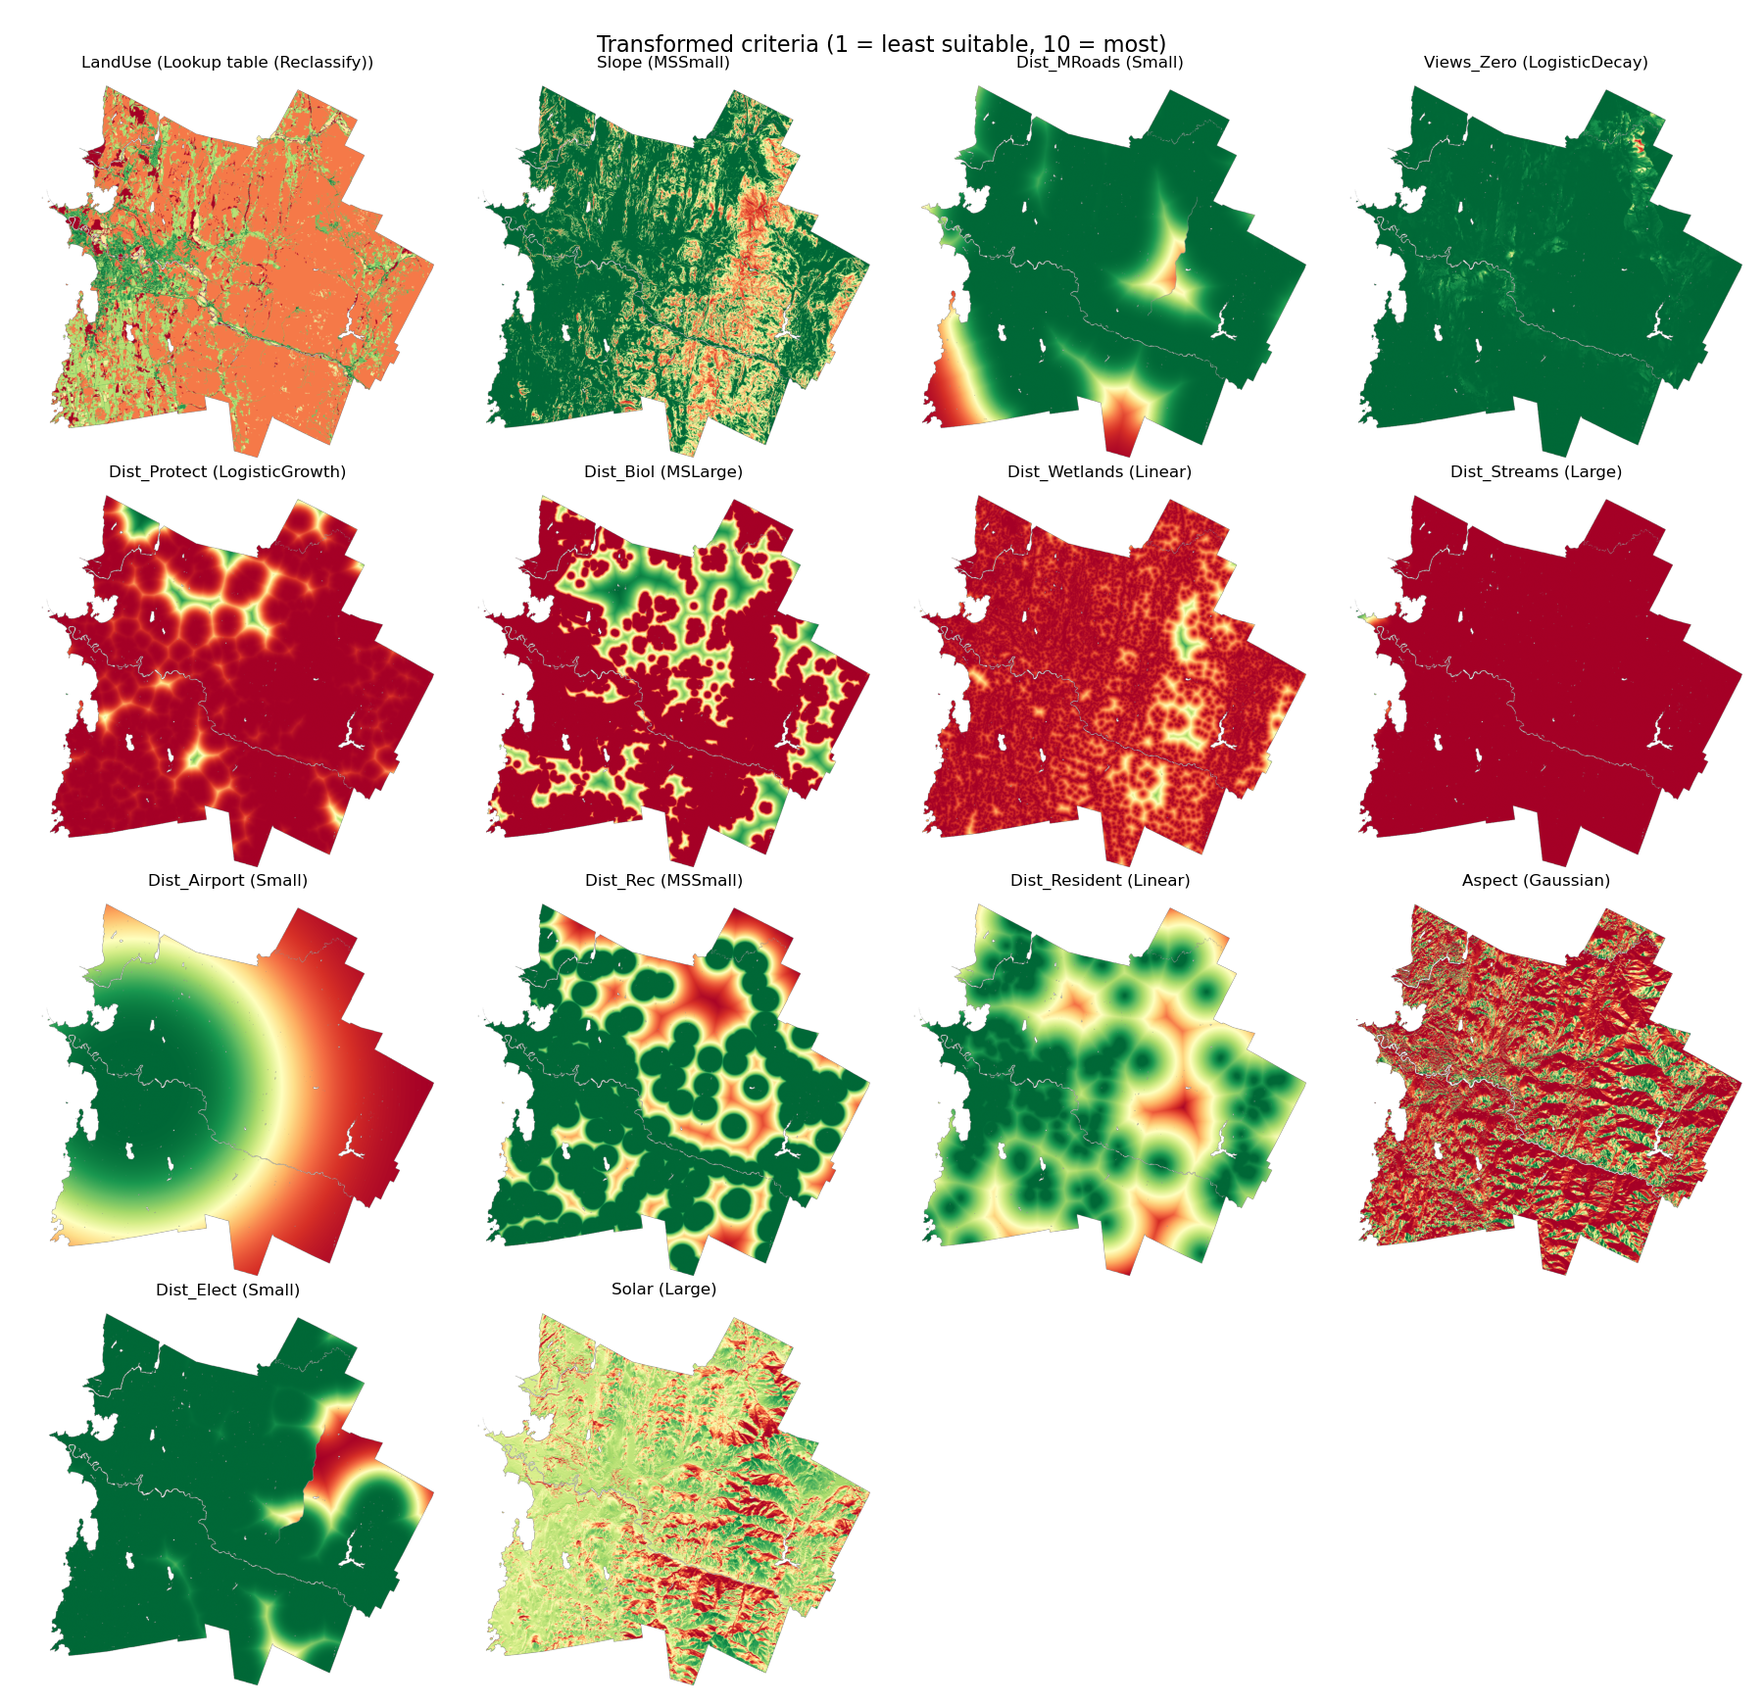
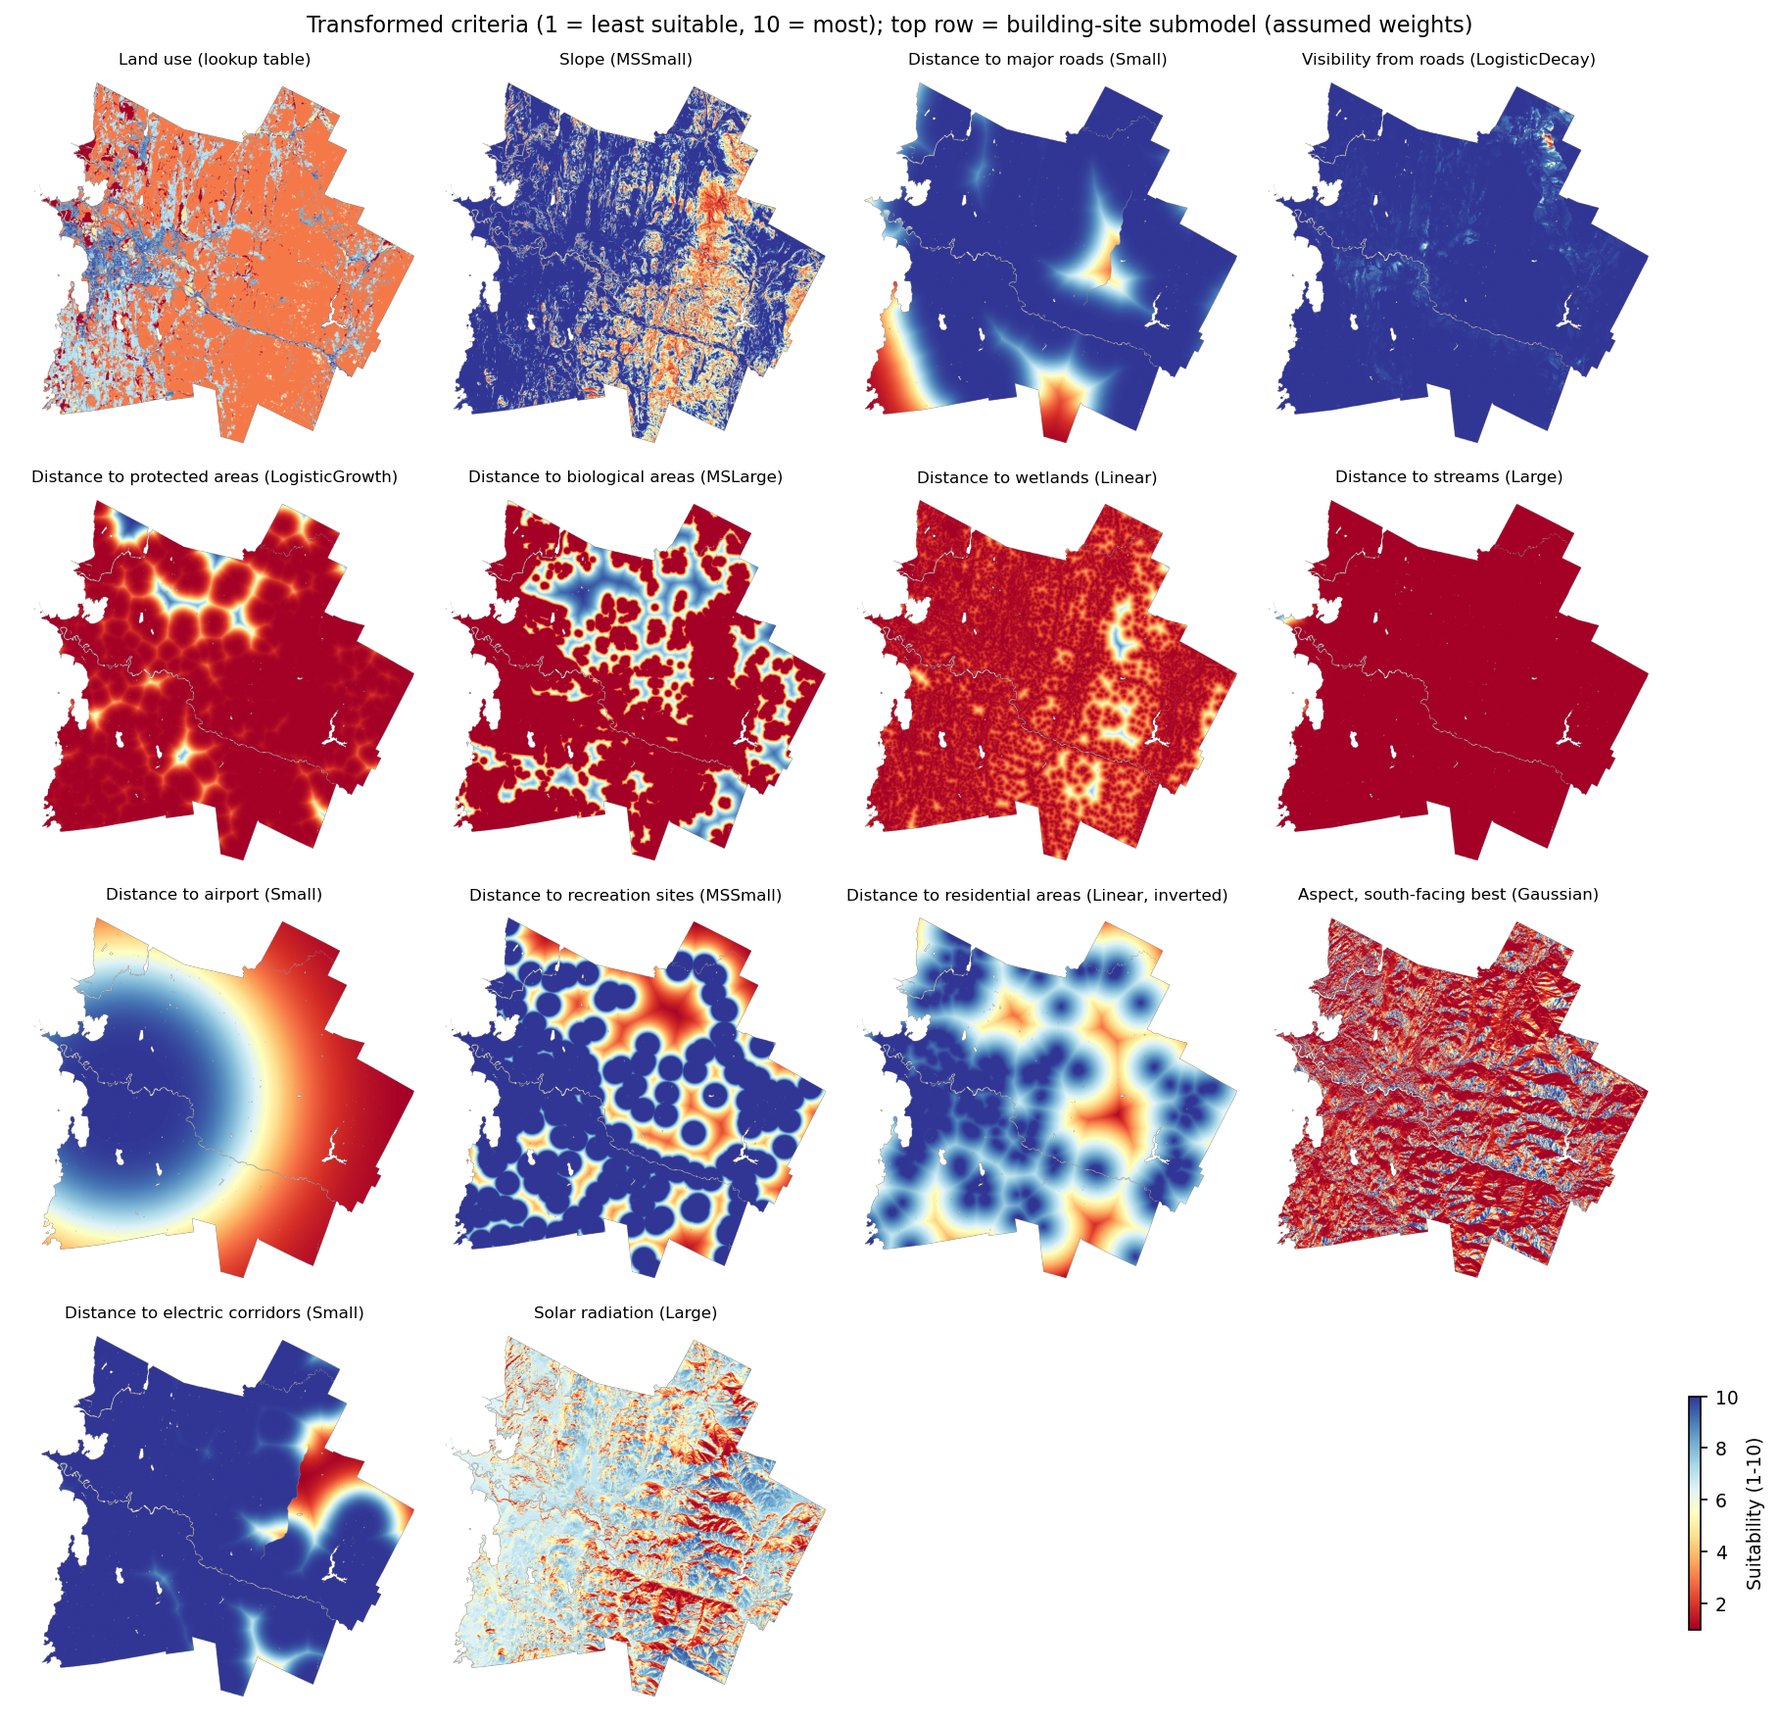
Audit README numbers against results, colourblind-safe suitability figures, figures-only redraw
- README: lead with key findings (spatial CV 0.76 -> 0.58, neighbourhood
  comparison, course numbers reproduced), add Skills shown, fix numbers
  that disagreed with results/ (M4 max R2 0.84, county income max $46,933,
  1,153 extra significant counties, LISA counts 281/392/15/17), state that
  visibility from roads uses logistic decay as the course specifies.
- Section 3 figures: RdYlGn -> RdYlBu, readable criterion titles, colourbars,
  black dashed ridge; Section 2 importance plot uses readable variable names;
  Section 4 maps trimmed.
- s2/s3/s4 scripts: figures() functions and a --figures-only flag that
  redraw from existing results and outputs without rerunning the tools.

diff --git a/src/s3_suitability.py b/src/s3_suitability.py
@@ -246,60 +246,82 @@ def main():
     C.write_json(site, C.RES / "s3_suitability.json")
 
     # ---- 6. Figures ---------------------------------------------------------------
+    figures(arcpy, plt, gdb, criteria_rows)
+    C.log("Section 3 done")
+
+
+SUIT_CMAP = "RdYlBu"  # red = least suitable, blue = most; readable with red-green colour blindness
+SUBMODEL_TITLES = {"HQ_Building_Site": "Building site", "HQ_Energy_Independence": "Energy independence",
+                   "HQ_Access_to_Amenities": "Access to amenities", "HQ_Environmental_Concerns": "Environmental concerns"}
+CRITERION_TITLES = {
+    "LandUse": "Land use (lookup table)", "Slope": "Slope (MSSmall)", "Dist_MRoads": "Distance to major roads (Small)",
+    "Views_Zero": "Visibility from roads (LogisticDecay)", "Dist_Protect": "Distance to protected areas (LogisticGrowth)",
+    "Dist_Biol": "Distance to biological areas (MSLarge)", "Dist_Wetlands": "Distance to wetlands (Linear)",
+    "Dist_Streams": "Distance to streams (Large)", "Dist_Airport": "Distance to airport (Small)",
+    "Dist_Rec": "Distance to recreation sites (MSSmall)", "Dist_Resident": "Distance to residential areas (Linear, inverted)",
+    "Aspect": "Aspect, south-facing best (Gaussian)", "Dist_Elect": "Distance to electric corridors (Small)",
+    "Solar": "Solar radiation (Large)",
+}
+
+
+def figures(arcpy, plt, gdb, criteria_rows):
+    """Draw the Section 3 figures from the rasters in outputs/s3_suitability.gdb."""
+    from matplotlib.collections import LineCollection
+
     roads = read_lines(str(C.SUIT_GDB / "MajorRoads"))
     ridge = read_lines(str(C.SUIT_GDB / "GreenMTRidge"))
+    poly = f"{gdb}/Best_Region_poly"
     region_poly, _ = C.read_polygons(poly, ["gridcode"])
+    cen = next(arcpy.da.SearchCursor(poly, ["SHAPE@TRUECENTROID"]))[0]
     hs, ext = raster_array(arcpy, str(C.SUIT_GDB / "Hillshade"))
     fin, fext = raster_array(arcpy, f"{gdb}/HQ_Suitability")
-    from matplotlib.collections import LineCollection
 
     fig, ax = plt.subplots(figsize=(9, 8))
     ax.imshow(hs, cmap="gray", extent=ext, vmin=0, vmax=255)
-    im = ax.imshow(fin, cmap="RdYlGn", extent=fext, alpha=0.75, vmin=1, vmax=10)
+    im = ax.imshow(fin, cmap=SUIT_CMAP, extent=fext, alpha=0.75, vmin=1, vmax=10)
     ax.add_collection(LineCollection(roads, colors="#333333", linewidths=0.5))
-    ax.add_collection(LineCollection(ridge, colors="#7b3294", linewidths=1.2, linestyles="--"))
+    ax.add_collection(LineCollection(ridge, colors="#000000", linewidths=1.4, linestyles="--"))
     C.draw_paths(ax, region_poly, "none", edgecolor="#000000", linewidth=2)
-    ax.annotate("Best 2 km² region", xy=(cen[0][0], cen[0][1]), xytext=(20, 30), textcoords="offset points",
+    ax.annotate(f"Best {LOCATE_AREA_KM2:g} km² region", xy=(cen[0], cen[1]), xytext=(20, 30), textcoords="offset points",
                 fontsize=9, fontweight="bold", arrowprops={"arrowstyle": "->"})
     ax.set_xlim(fext[0], fext[1])
     ax.set_ylim(fext[2], fext[3])
     ax.set_axis_off()
     ax.set_title("Headquarters suitability, Vermont study area (1 = least, 10 = most suitable)\n"
-                 "black lines = major roads, purple dashed = Green Mountain ridge barrier", fontsize=10)
-    fig.colorbar(im, ax=ax, shrink=0.6, label="Suitability")
+                 "solid black = major roads, dashed black = Green Mountain ridge barrier", fontsize=10)
+    fig.colorbar(im, ax=ax, shrink=0.6, label="Suitability (1-10)")
     fig.tight_layout()
     fig.savefig(C.FIG / "s3_suitability_map.png")
     plt.close(fig)
 
     names = list(SUBMODEL_WEIGHTS)
-    fig, axes = plt.subplots(2, 2, figsize=(10, 9))
+    fig, axes = plt.subplots(2, 2, figsize=(10, 9), layout="constrained")
     for ax, model in zip(axes.ravel(), names):
         arr, e = raster_array(arcpy, f"{gdb}/{model}_1to10")
         ax.imshow(hs, cmap="gray", extent=ext, vmin=0, vmax=255)
-        ax.imshow(arr, cmap="RdYlGn", extent=e, alpha=0.75, vmin=1, vmax=10)
-        ax.set_title(model.replace("HQ_", "").replace("_", " "))
+        im = ax.imshow(arr, cmap=SUIT_CMAP, extent=e, alpha=0.75, vmin=1, vmax=10)
+        ax.set_title(SUBMODEL_TITLES.get(model, model))
         ax.set_axis_off()
-    fig.suptitle("Submodels rescaled to 1-10")
-    fig.tight_layout()
-    fig.savefig(C.FIG / "s3_submodels.png")
+    fig.colorbar(im, ax=axes, shrink=0.5, label="Suitability (1-10)")
+    fig.suptitle("Submodels rescaled to 1-10 (equal weights in the final model)")
+    fig.savefig(C.FIG / "s3_submodels.png", bbox_inches="tight")
     plt.close(fig)
 
     crit_names = [r["criterion"] for r in criteria_rows]
     n = len(crit_names)
     cols = 4
     rows_n = int(np.ceil(n / cols))
-    fig, axes = plt.subplots(rows_n, cols, figsize=(12, 2.9 * rows_n))
+    fig, axes = plt.subplots(rows_n, cols, figsize=(12, 2.9 * rows_n), layout="constrained")
     for ax, crit in zip(axes.ravel(), crit_names):
         arr, e = raster_array(arcpy, f"{gdb}/T_{crit}")
-        ax.imshow(arr, cmap="RdYlGn", extent=e, vmin=1, vmax=10)
-        fn = next(r["function"] for r in criteria_rows if r["criterion"] == crit)
-        ax.set_title(f"{crit} ({fn})", fontsize=8)
+        im = ax.imshow(arr, cmap=SUIT_CMAP, extent=e, vmin=1, vmax=10)
+        ax.set_title(CRITERION_TITLES.get(crit, crit), fontsize=8)
         ax.set_axis_off()
     for ax in axes.ravel()[n:]:
         ax.set_axis_off()
-    fig.suptitle("Transformed criteria (1 = least suitable, 10 = most)")
-    fig.tight_layout()
-    fig.savefig(C.FIG / "s3_criteria_grid.png")
+    fig.colorbar(im, ax=axes.ravel()[n:].tolist() or axes.ravel().tolist(), shrink=0.6, label="Suitability (1-10)")
+    fig.suptitle("Transformed criteria (1 = least suitable, 10 = most); top row = building-site submodel (assumed weights)")
+    fig.savefig(C.FIG / "s3_criteria_grid.png", bbox_inches="tight")
     plt.close(fig)
 
     # Barrier effect figure
@@ -312,11 +334,22 @@ def main():
         ax.add_collection(LineCollection(ridge, colors="#00e5ff", linewidths=1.0, linestyles="--"))
         ax.set_title(ttl, fontsize=9)
         ax.set_axis_off()
-    fig.colorbar(im, ax=axes, shrink=0.7, label="km")
+    fig.colorbar(im, ax=axes, shrink=0.7, label="Distance to major roads (km)")
     fig.savefig(C.FIG / "s3_distance_barrier.png", bbox_inches="tight")
     plt.close(fig)
-    C.log("Section 3 done")
+
+
+def figures_only():
+    """Redraw the figures from results/s3_criteria.csv and the existing geodatabase."""
+    import csv
+
+    arcpy = C.import_arcpy()
+    plt = C.setup_matplotlib()
+    with open(C.RES / "s3_criteria.csv", encoding="utf-8", newline="") as f:
+        criteria_rows = list(csv.DictReader(f))
+    figures(arcpy, plt, str(C.OUT / "s3_suitability.gdb"), criteria_rows)
+    C.log("Section 3 figures redrawn")
 
 
 if __name__ == "__main__":
-    main()
+    figures_only() if "--figures-only" in sys.argv else main()

diff --git a/src/s2_prediction.py b/src/s2_prediction.py
@@ -63,6 +63,32 @@ MANY = {
     "voter_laws": "voter_laws",
 }
 CATEGORICAL = {"voter_laws"}
+# Readable names for the figures (field aliases from the course layers)
+LABELS = {
+    "gender_medage_cy": "Median age",
+    "householdincome_pci_cy": "Per-capita income",
+    "educationalattainment_nohs_cy_p": "Less than 9th grade (%)",
+    "educationalattainment_somehs_cy_p_1": "No high-school diploma (%)",
+    "educationalattainment_hsgrad_cy_p": "High-school graduate (%)",
+    "educationalattainment_ged_cy_p": "GED (%)",
+    "educationalattainment_smcoll_cy_p": "Some college (%)",
+    "educationalattainment_asscdeg_cy_p": "Associate degree (%)",
+    "educationalattainment_bachdeg_cy_p": "Bachelor's degree (%)",
+    "educationalattainment_graddeg_cy_p": "Graduate degree (%)",
+    "maritalstatustotals_nevmarr_cy_p": "Never married (%)",
+    "F5yearincrements_pop18up_cy": "Population 18+",
+    "F5yearincrements_pop65_cy_p": "Age 65-69 (%)",
+    "F5yearincrements_pop70_cy_p": "Age 70-74 (%)",
+    "F5yearincrements_pop75_cy_p": "Age 75-79 (%)",
+    "raceandhispanicorigin_divindx_cy": "Diversity index",
+    "households_acshhbpov_p": "Households below poverty (%)",
+    "psychographicsadvertising_mp28001a_b_p": "'Buying American not important' (%)",
+    "financial_x14060_x_a": "Avg. checking/savings value",
+    "financial_x14058_x_a": "Financial variable X14058 (avg.)",
+    "state_votes_pcnt_diff": "Statewide margin",
+    "voter_laws": "Voter laws (categorical)",
+    "Cities5": "Distance to largest cities (Cities5)",
+}
 NATIONAL_BASE = ["gender_MEDAGE_CY", "householdincome_PCI_CY", "educationalattainment_BACHDEG_CY_P"]
 NATIONAL_MANY = NATIONAL_BASE + [
     "educationalattainment_SOMEHS_CY_P", "households_ACSHHBPOV_P", "disposableincome_AVGDI_CY",
@@ -224,10 +250,10 @@ def figures(arcpy, plt, models, loso_rows, loso_pooled, gdb, refined_vars):
     imp = ref["importance_mean"]
     fig, ax = plt.subplots(figsize=(7, 0.3 * len(imp) + 1.2))
     keys = list(imp.keys())[::-1]
-    ax.barh(keys, [imp[k] for k in keys], color="#7a9cc6")
-    ax.set_xlabel("Mean variable importance (10 runs)")
-    ax.set_title("Refined model: variable importance")
-    ax.tick_params(axis="y", labelsize=7)
+    ax.barh([LABELS.get(k, k) for k in keys], [imp[k] for k in keys], color="#7a9cc6")
+    ax.set_xlabel("Variable importance (Gini-based, mean of 10 runs)")
+    ax.set_title("Refined model (M4): variable importance")
+    ax.tick_params(axis="y", labelsize=8)
     fig.tight_layout()
     fig.savefig(C.FIG / "s2_importance.png")
     plt.close(fig)
@@ -264,7 +290,21 @@ def figures(arcpy, plt, models, loso_rows, loso_pooled, gdb, refined_vars):
     plt.close(fig)
 
 
+def figures_only():
+    """Redraw the figures from results/s2_prediction.json and the existing geodatabase."""
+    import json
+
+    arcpy = C.import_arcpy()
+    plt = C.setup_matplotlib()
+    res = json.loads((C.RES / "s2_prediction.json").read_text(encoding="utf-8"))
+    figures(arcpy, plt, res["models"], res["spatial_cv"]["by_state"], res["spatial_cv"]["pooled_r2"],
+            str(C.OUT / "s2_prediction.gdb"), res["refined_variables"])
+    C.log("Section 2 figures redrawn")
+
+
 def main():
+    if "--figures-only" in sys.argv:
+        return figures_only()
     arcpy = C.import_arcpy()
     plt = C.setup_matplotlib()
     gdb = C.ensure_gdb("s2_prediction")

diff --git a/src/s4_patterns_spacetime.py b/src/s4_patterns_spacetime.py
@@ -174,8 +174,20 @@ def main():
     C.write_json(summary, C.RES / "s4_patterns.json")
 
     # ---- Maps --------------------------------------------------------------------------
+    figures(arcpy, plt, gdb, summary)
+    C.log("Section 4 done")
+
+
+def figures(arcpy, plt, gdb, summary):
+    """Draw the Section 4 maps from outputs/s4_patterns.gdb and the summary written to results/s4_patterns.json."""
+    import numpy as np
     from matplotlib.patches import Patch
 
+    counties, hs_fixed, hs_cont = f"{gdb}/Counties", f"{gdb}/HotSpots_fixed", f"{gdb}/HotSpots_contiguity"
+    lisa, ehsa, loa = f"{gdb}/ClustersOutliers_contiguity", f"{gdb}/EmergingHotSpots", f"{gdb}/LocalOutliers"
+    pat_col = next(c for c in summary["ehsa_fields"] if c.upper() == "PATTERN")
+    cat_col = next(c for c in summary["loa_fields"] if c.upper() == "CO_TYPE")
+    ehsa_counts, loa_counts = summary["counts"]["ehsa"], summary["counts"]["loa"]
     sr = arcpy.Describe(counties).spatialReference
     state_paths, _ = C.read_polygons(STATES, ["STATE_ABBR"], spatial_reference=sr)
     paths_f, dff = C.read_polygons(hs_fixed, ["Gi_Bin"])
@@ -192,8 +204,6 @@ def main():
 
     fig, axes = plt.subplots(2, 2, figsize=(14, 9))
     ax = axes[0, 0]
-    import numpy as np
-
     v = dfr[RATE_FIELD].astype(float).values
     cmap = plt.get_cmap("YlOrRd")
     norm = plt.Normalize(0, np.nanpercentile(v, 99))
@@ -214,7 +224,7 @@ def main():
     legend(ax, [("High-High cluster", C.LISA_COLORS["HH"]), ("High-Low outlier", C.LISA_COLORS["HL"]), ("Low-High outlier", C.LISA_COLORS["LH"]),
                 ("Low-Low cluster", C.LISA_COLORS["LL"]), ("Not significant", C.LISA_COLORS[""])], "Cluster/outlier type")
     fig.tight_layout()
-    fig.savefig(C.FIG / "s4_hotspots_lisa.png")
+    fig.savefig(C.FIG / "s4_hotspots_lisa.png", bbox_inches="tight")
     plt.close(fig)
 
     fig, axes = plt.subplots(1, 2, figsize=(14, 6.2))
@@ -233,10 +243,19 @@ def main():
     legend(ax, [(f"{p} ({int(loa_counts.get(p, 0))})", LOA_COLORS[p]) for p in present], "Category (counties)",
            loc="upper center", bbox_to_anchor=(0.5, 0.02), ncol=3)
     fig.tight_layout()
-    fig.savefig(C.FIG / "s4_spacetime.png")
+    fig.savefig(C.FIG / "s4_spacetime.png", bbox_inches="tight")
     plt.close(fig)
-    C.log("Section 4 done")
+
+
+def figures_only():
+    import json
+
+    arcpy = C.import_arcpy()
+    plt = C.setup_matplotlib()
+    summary = json.loads((C.RES / "s4_patterns.json").read_text(encoding="utf-8"))
+    figures(arcpy, plt, str(C.OUT / "s4_patterns.gdb"), summary)
+    C.log("Section 4 figures redrawn")
 
 
 if __name__ == "__main__":
-    main()
+    figures_only() if "--figures-only" in sys.argv else main()

diff --git a/COURSE_NOTES.md b/COURSE_NOTES.md
@@ -9,7 +9,7 @@ Run everything from the ArcGIS Pro Python environment:
 "C:\Program Files\ArcGIS\Pro\bin\Python\envs\arcgispro-py3\python.exe" run_all.py s2       # one section
 ```
 
-Each script writes its ArcGIS outputs to `outputs/<section>.gdb`, every tool's messages to `outputs/logs/`, metric tables to `results/`, and figures to `figures/`.
+Each script writes its ArcGIS outputs to `outputs/<section>.gdb`, every tool's messages to `outputs/logs/`, metric tables to `results/`, and figures to `figures/`. `src/s2_prediction.py`, `src/s3_suitability.py` and `src/s4_patterns_spacetime.py` accept `--figures-only`, which redraws the figures from the existing `results/` and `outputs/` without rerunning any tool.
 
 ## Section 1 — Data engineering (`src/s1_data_engineering.py`)
 
@@ -65,7 +65,7 @@ The course's `ElectionPartyVotes.ipynb` computes `state_votes_pcnt_diff` (statew
 | Final model | Suitability Modeler with submodels as criteria | linear rescale of each submodel to 1–10, equal weights | `HQ_Suitability`, `figures/s3_submodels.png` |
 | Locate | Suitability Modeler → Locate (Locate Regions) | `sa.LocateRegions(final, 2, "SQUARE_KILOMETERS", 1, "CIRCLE", 0, 50, "HIGHEST_AVERAGE_VALUE")` | `Best_Region`, `results/s3_suitability.json`, `figures/s3_suitability_map.png` |
 
-`Suitability.sam` is the course's saved Suitability Modeler state. `read_sam()` pulls the transformation function, its parameters and the weight for every criterion of the three submodels it stores; those are used verbatim. The Building Site submodel and the final combination are not in the file, so their values are flagged `assumption` in `results/s3_criteria.csv`.
+`Suitability.sam` is the course's saved Suitability Modeler state. `read_sam()` pulls the transformation function, its parameters and the weight for every criterion of the three submodels it stores; those are used verbatim. The Building Site submodel and the final combination are not in the file, so their values are flagged `assumption` in `results/s3_criteria.csv`. The one transformation the exercise text does specify for that submodel is visibility from roads: logistic decay (the more visible a site is from the roads, the less preferred it is), which is what the script uses.
 
 ## Section 4 — Pattern detection and space-time (`src/s4_patterns_spacetime.py`)
 
